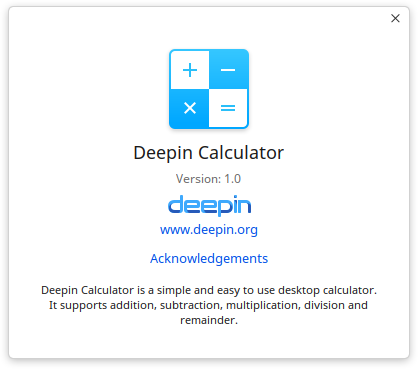
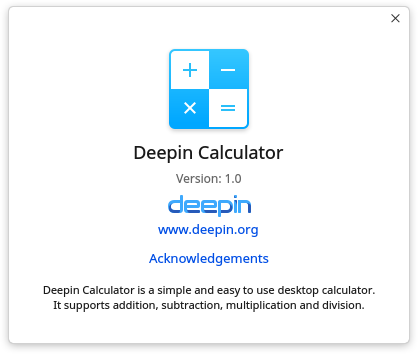
feat: add error font color && upgrade help manual.

diff --git a/src/inputedit.cpp b/src/inputedit.cpp
@@ -13,43 +13,31 @@ InputEdit::~InputEdit()
 
 void InputEdit::mouseDoubleClickEvent(QMouseEvent *e)
 {
-    // if (e->button() == Qt::LeftButton) {
-    //     const QString text = this->text();
-    //     QFontMetrics fm(this->fontMetrics());
+    // QString exp = this->text();
+    // QString seg;
+    // QStringList expList;
 
-    //     int cursorPos = cursorPositionAt(QPoint(e->x(), e->y()));  // or cursorPosition()
-    //     QStringList list = text.split("[1-9]");
+    // for (int i = 0; i < exp.count(); ++i) {
+    //     const QChar ch = exp.at(i);
 
-    //     qDebug() << list;
+    //     if (ch.isDigit() || ch == '.' || ch == ',') {
+    //         seg.append(ch);
+    //     } else {
+    //         expList << seg;
+    //         seg.clear();
+    //         seg.append(ch);
+    //         expList << seg;
+    //         seg.clear();
+    //     }
+
+    //     if (i == exp.count() - 1) {
+    //         if (!seg.isEmpty()) {
+    //             expList << seg;
+    //         }
+    //     }
     // }
 
-    QString exp = this->text();
-    QString seg;
-    QStringList expList;
-
-    for (int i = 0; i < exp.count(); ++i) {
-        const QChar ch = exp.at(i);
-
-        if (ch.isDigit() || ch == '.' || ch == ',') {
-            seg.append(ch);
-        } else {
-            expList << seg;
-            seg.clear();
-            seg.append(ch);
-            expList << seg;
-            seg.clear();
-        }
-
-        if (i == exp.count() - 1) {
-            if (!seg.isEmpty()) {
-                expList << seg;
-            }
-        }
-    }
-
-    qDebug() << expList;
-
-    // QLineEdit::mouseDoubleClickEvent(e);
+    QLineEdit::mouseDoubleClickEvent(e);
 }
 
 void InputEdit::keyPressEvent(QKeyEvent *e)

diff --git a/src/listview.cpp b/src/listview.cpp
@@ -1,5 +1,6 @@
 #include "listview.h"
 #include "dthememanager.h"
+#include "utils.h"
 
 #include <QPainter>
 #include <QMouseEvent>
@@ -34,10 +35,12 @@ void ListView::initTheme()
     if (DThemeManager::instance()->theme() == "light") {
         backgroundColor = "#FBFBFB";
         fontColor = "#636363";
+        errorFontColor = "#F37D54";
         scrollbarColor = "#000000";
     } else {
         backgroundColor = "#111111";
         fontColor = "#C3C3C3";
+        errorFontColor = "#F37D54";
         scrollbarColor = "#FFFFFF";
     }
 }
@@ -93,8 +96,19 @@ void ListView::paintEvent(QPaintEvent *)
     int count = 0;
     for (QString item : listItems) {
         if (count >= offset / rowHeight) {
+            QStringList list = item.split(" = ");
+
             QRect itemRect(padding, count * rowHeight - offset, rect().width() - padding - 15, rowHeight);
-            painter.drawText(itemRect, Qt::AlignVCenter | Qt::AlignRight, item);
+            painter.drawText(QRect(itemRect.x() - fontMetrics().width(list.last()), itemRect.y(), rect().width() - padding * 2, itemRect.height()), Qt::AlignVCenter | Qt::AlignRight, list.first() + " = ");
+
+            if (Utils::stringIsDigit(list.last())) {
+                painter.setPen(QColor(fontColor));
+            } else {
+                painter.setPen(QColor(errorFontColor));
+            }
+
+            painter.drawText(itemRect, Qt::AlignVCenter | Qt::AlignRight, list.last());
+            painter.setPen(QColor(fontColor));
 
             drawHeight += rowHeight;
 

diff --git a/src/utils.cpp b/src/utils.cpp
@@ -47,7 +47,7 @@ bool Utils::stringIsDigit(const QString &str)
     bool isDigit = true;
 
     for (auto &ch : str) {
-        if (!ch.isDigit() && ch != '.') {
+        if (!ch.isDigit() && ch != '.' && ch != ',') {
             isDigit = false;
             break;
         }
@@ -58,13 +58,11 @@ bool Utils::stringIsDigit(const QString &str)
 
 QString Utils::reformatSeparators(const QString &exp)
 {
-    QString expression = exp;
     QString seg;
     QStringList expList;
 
-    for (int i = 0; i < exp.count(); ++i) {
-        const QChar ch = exp.at(i);
-
+    int count = 0;
+    for (auto ch : exp) {
         if (ch.isDigit() || ch == '.') {
             seg.append(ch);
         } else {
@@ -75,9 +73,11 @@ QString Utils::reformatSeparators(const QString &exp)
             seg.clear();
         }
 
-        if (i == expression.count() - 1) {
+        if (count == exp.count() - 1) {
             expList << seg;
         }
+
+        ++count;
     }
 
     QString formatStr;

diff --git a/src/expressionlist.cpp b/src/expressionlist.cpp
@@ -132,12 +132,12 @@ void ExpressionList::enterEqualEvent()
                 return;
             }
 
-            m_listView->addItem(m_inputEdit->text() + " ＝ " + formatResult);
+            m_listView->addItem(m_inputEdit->text() + " = " + formatResult);
             m_inputEdit->setText(formatResult);
             m_isContinue = false;
         }
     } else {
-        m_listView->addItem(m_inputEdit->text() + " ＝ " + tr("Expression Error"));
+        m_listView->addItem(m_inputEdit->text() + " = " + tr("Expression Error"));
     }
 }
 

diff --git a/src/listview.h b/src/listview.h
@@ -40,6 +40,7 @@ private:
     bool isShowScrollbar;
     QString backgroundColor;
     QString fontColor;
+    QString errorFontColor;
     QString scrollbarColor;
 };
 

diff --git a/dman/deepin-calculator/en_US/index.md b/dman/deepin-calculator/en_US/index.md
@@ -2,7 +2,7 @@
 
 ## Overview|../common/icon_overview.svg|
 
-Deepin Calculator is a simple and easy to use desktop calculator. It supports addition, subtraction, multiplication, division and remainder with keyboard input perfectly matched, as well as symbolic fault-tolerant computing.
+Deepin Calculator is a simple and easy to use desktop calculator. It supports addition, subtraction, multiplication and division with keyboard input perfectly matched, as well as symbolic fault-tolerant computing.
 
 ![0|calculator](png/calculator.png)
 
@@ -25,8 +25,8 @@ Deepin Calculator is a simple and easy to use desktop calculator. It supports ad
         </tr>
     	<tr>
             <td>%</td>
-            <td>Remainder</td>
-            <td>Remainder operator</td>
+            <td>Percent sign</td>
+            <td>To input percent sign</td>
         </tr>
     	<tr>
             <td>![delete](icon/delete.svg)</td>

diff --git a/dman/deepin-calculator/zh_CN/index.md b/dman/deepin-calculator/zh_CN/index.md
@@ -2,7 +2,7 @@
 
 ## 概述|../common/icon_overview.svg|
 
-深度计算器是一款简单易用的桌面计算器，支持加减乘除和取余运算。完美支持键盘输入，在键盘输入时还支持符号容错，最多可以显示三行计算结果。
+深度计算器是一款简单易用的桌面计算器，支持加减乘除运算。完美支持键盘输入，在键盘输入时还支持符号容错，最多可以显示三行计算结果。
 
 ![0|main](png/main.png)
 
